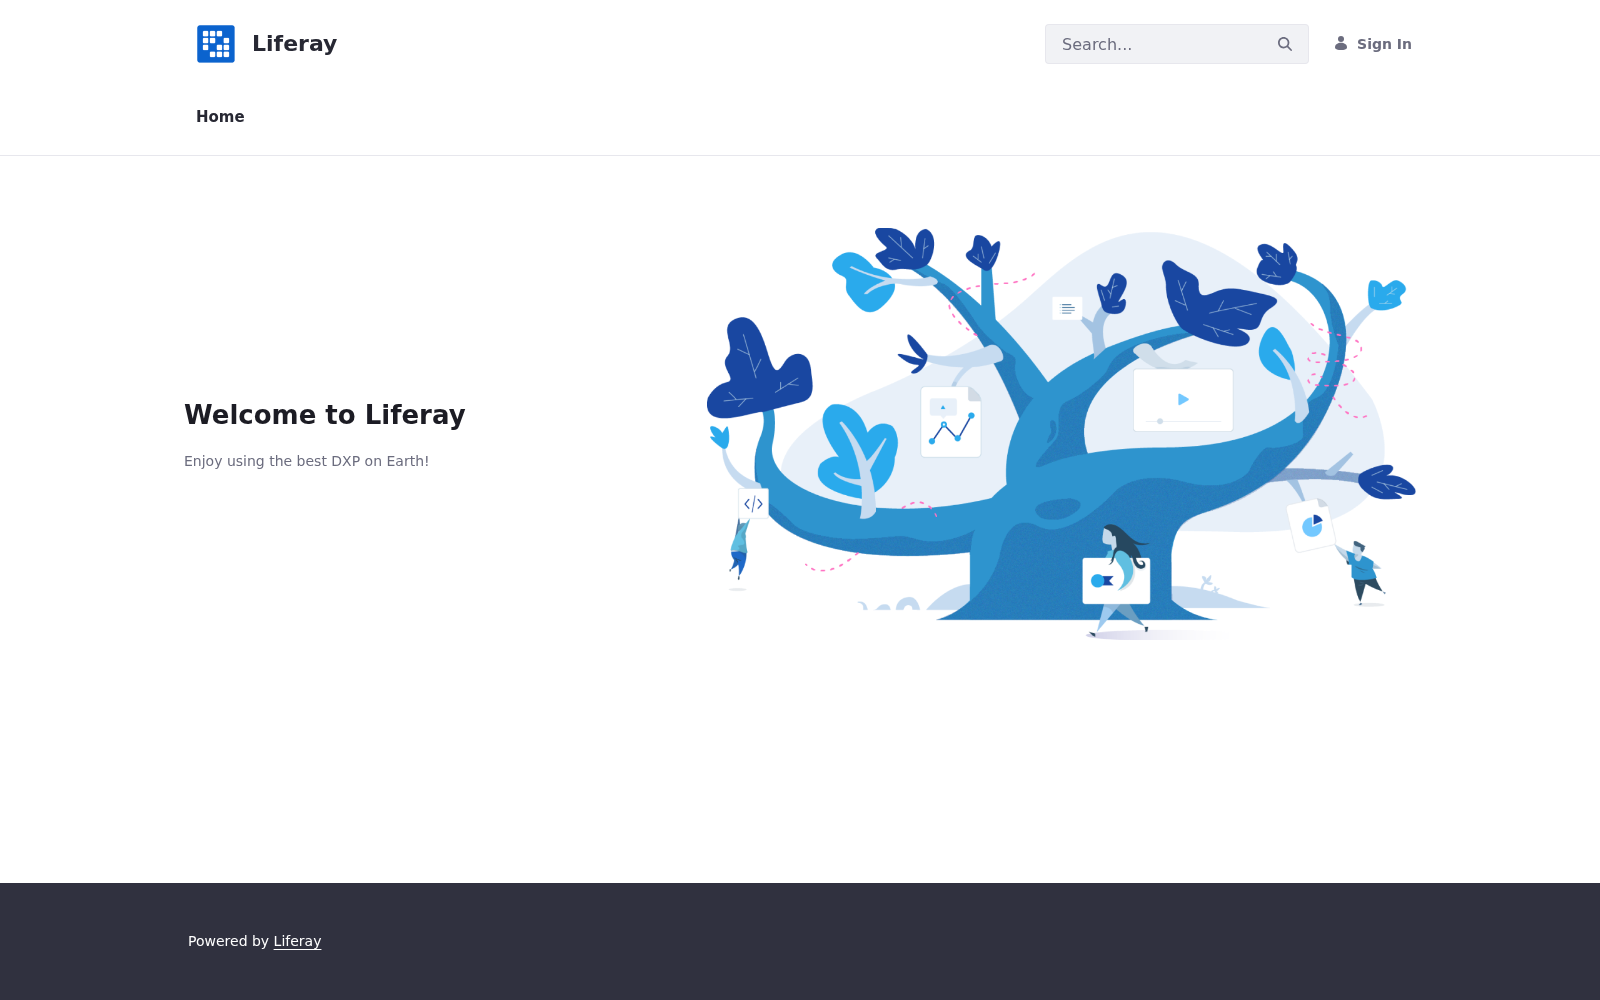
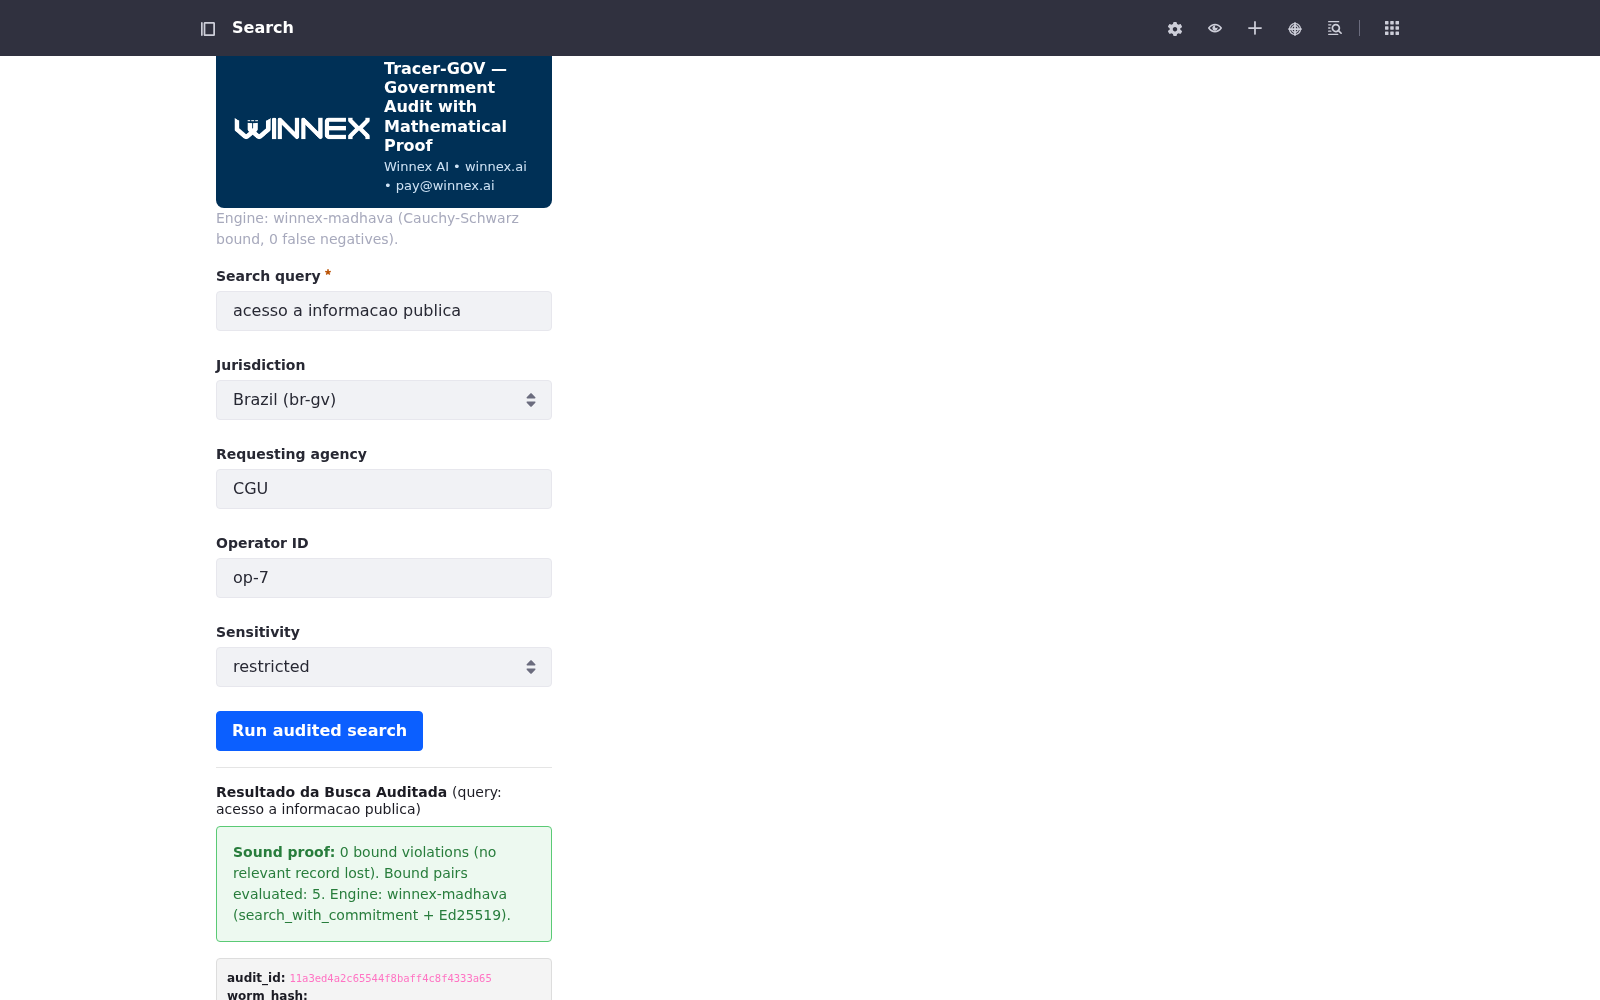
fix: real portlet results screenshot + signature contract
- docs/screenshots/02-tracergov-portlet-results.png: real screenshot with
  results, sound proof banner, audit_id and worm_hash (replaces the shared
  empty placeholder)
- tracer-gov-service/src/app.py: read signature from the signed commitment
  (1.9.2+ path) instead of the legacy result field

diff --git a/tracer-gov-service/src/app.py b/tracer-gov-service/src/app.py
@@ -352,8 +352,13 @@ def search(req: SearchRequest):
         "engine_used": result.engine_used,
         "latency_ms": round(latency, 3),
         "sound": int(result.violations_64d) == 0,
-        "signature": result.signature,
-        "signature_algorithm": result.signature_algorithm,
+        # No caminho 1.9.2+ (search_with_commitment) a assinatura Ed25519 está
+        # no commitment (rec["signature_hex"]); em <1.9.2 está em result.signature.
+        "signature": (result.commitment or {}).get("signature_hex", "")
+                      if result.commitment else result.signature,
+        "signature_algorithm": (result.commitment or {}).get(
+            "signature_algorithm", "Ed25519")
+            if result.commitment else result.signature_algorithm,
         "worm": {
             "block_hash": receipt.get("worm_hash", ""),
             "path": receipt.get("worm_path", ""),
